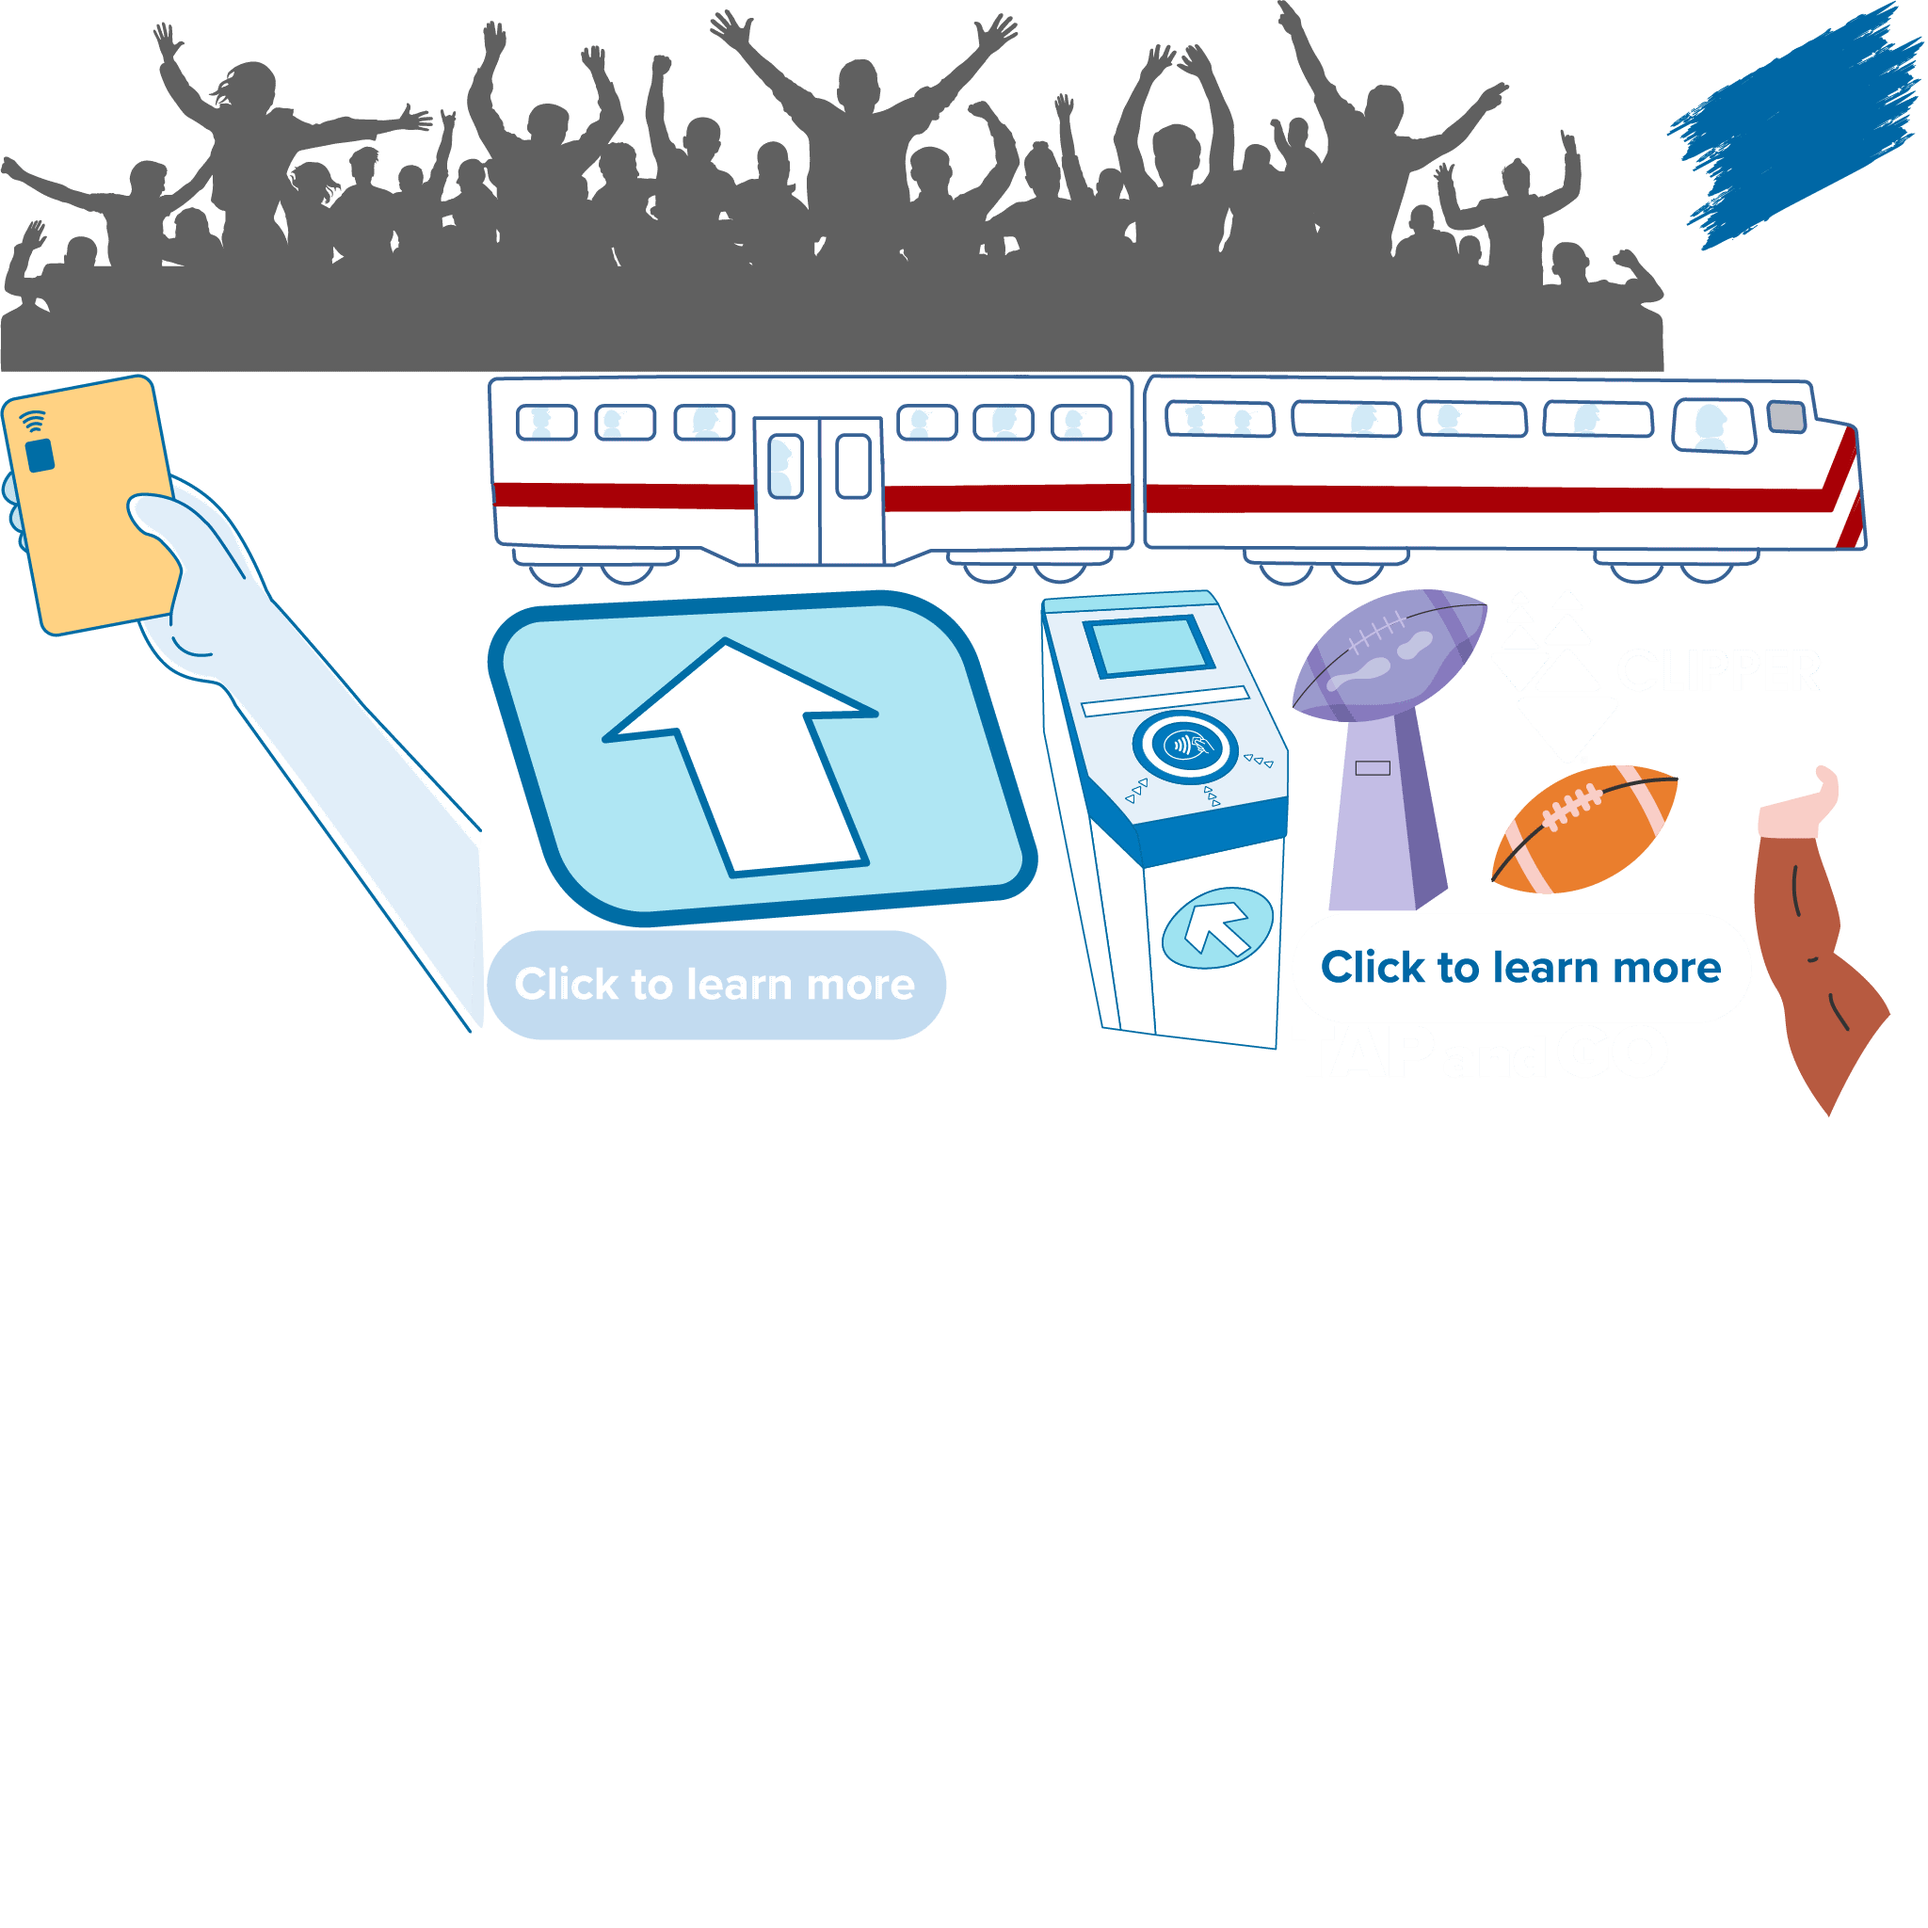
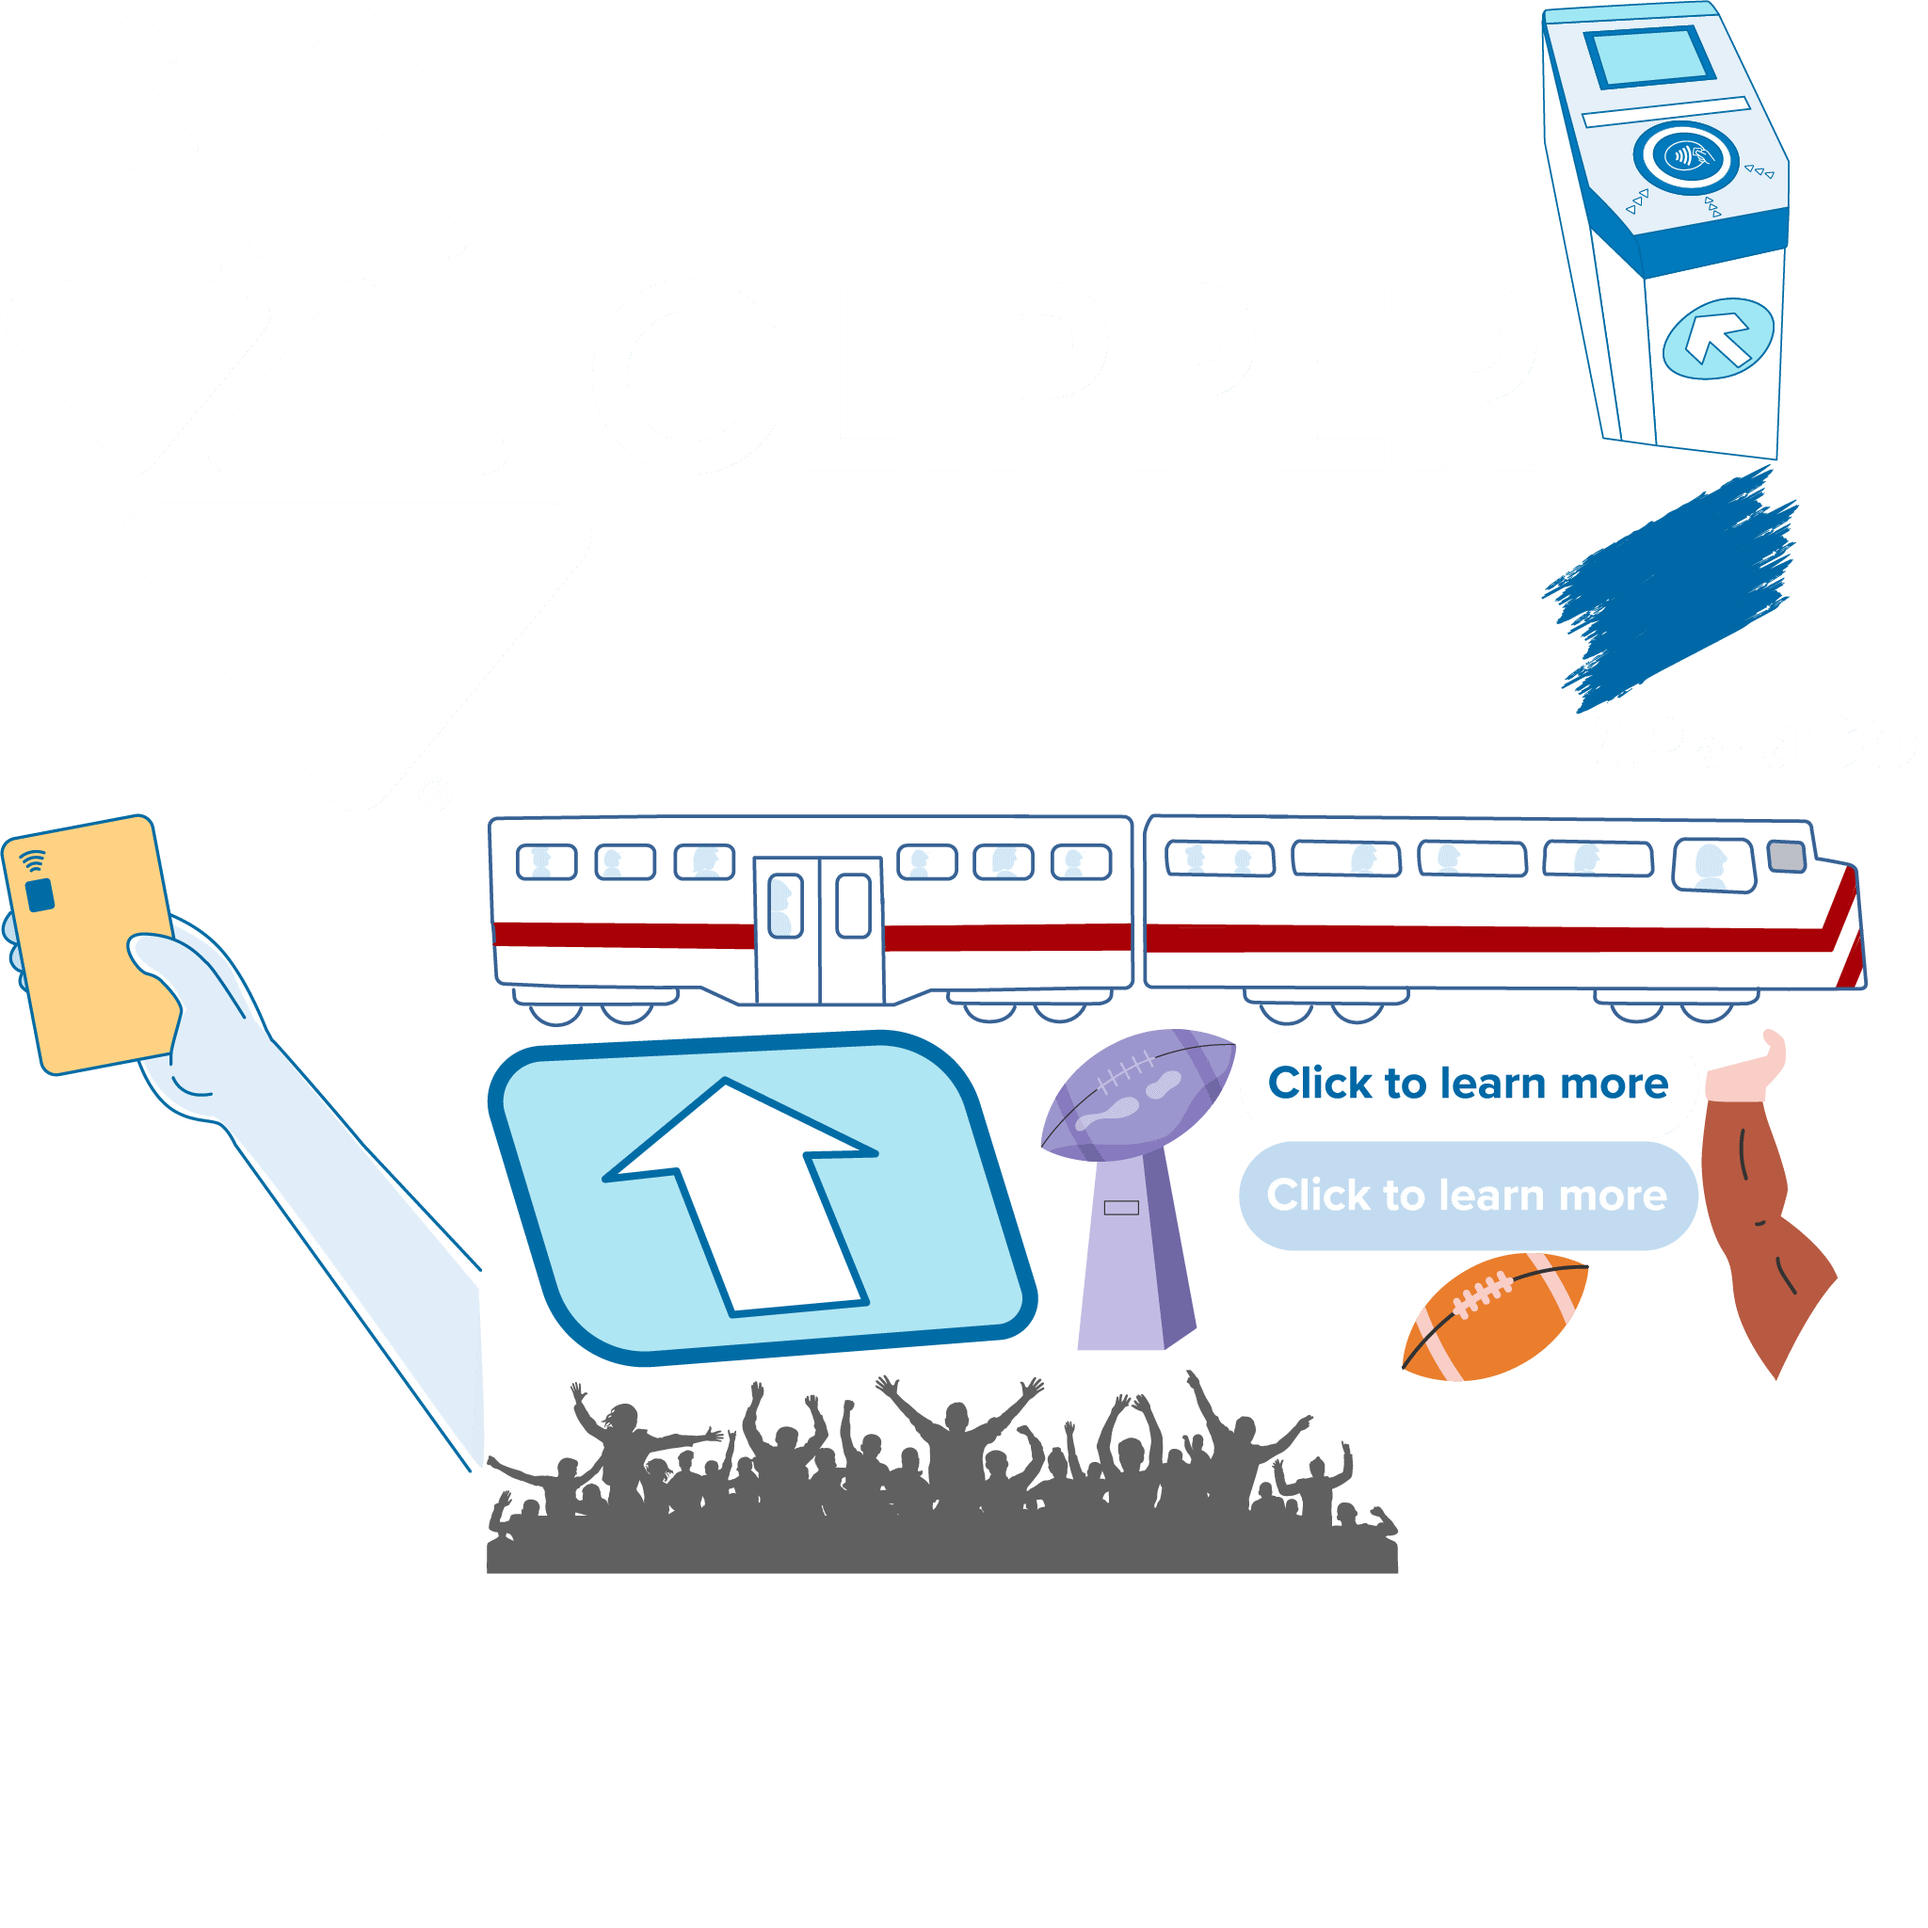
Add files via upload

diff --git a/index.html b/index.html
@@ -19,7 +19,7 @@
 var p; // shortcut to reference prototypes
 var lib={};var ss={};var img={};
 lib.ssMetadata = [
-		{name:"super_bowl_atlas_1", frames: [[1372,970,489,117],[517,988,489,117],[1863,813,146,374],[1583,813,200,137],[0,397,515,701],[1372,626,209,342],[1372,1089,400,56],[1770,0,275,267],[1105,626,265,490],[1583,626,351,185],[0,0,1768,395],[517,397,1468,227],[517,626,586,360]]}
+		{name:"super_bowl_atlas_1", frames: [[1316,1093,489,117],[1316,1212,489,117],[517,1455,969,217],[1807,1093,146,374],[1488,1331,200,137],[0,864,515,701],[1105,1093,209,342],[1637,761,400,56],[1637,492,275,267],[1637,0,265,490],[517,864,1468,227],[0,0,1635,862],[517,1093,586,360]]}
 ];
 (lib.AnMovieClip = function(){
 	this.actionFrames = [];
@@ -46,43 +46,43 @@ lib.ssMetadata = [
 	this.initialize(ss["super_bowl_atlas_1"]);
 	this.gotoAndStop(1);
 }).prototype = p = new cjs.Sprite();
-(lib.Asset308 = function() {
+(lib.Asset288 = function() {
 	this.initialize(ss["super_bowl_atlas_1"]);
 	this.gotoAndStop(2);
 }).prototype = p = new cjs.Sprite();
-(lib.Asset318 = function() {
+(lib.Asset308 = function() {
 	this.initialize(ss["super_bowl_atlas_1"]);
 	this.gotoAndStop(3);
 }).prototype = p = new cjs.Sprite();
-(lib.Asset328 = function() {
+(lib.Asset318 = function() {
 	this.initialize(ss["super_bowl_atlas_1"]);
 	this.gotoAndStop(4);
 }).prototype = p = new cjs.Sprite();
-(lib.Asset338 = function() {
+(lib.Asset328 = function() {
 	this.initialize(ss["super_bowl_atlas_1"]);
 	this.gotoAndStop(5);
 }).prototype = p = new cjs.Sprite();
-(lib.Asset368 = function() {
+(lib.Asset338 = function() {
 	this.initialize(ss["super_bowl_atlas_1"]);
 	this.gotoAndStop(6);
 }).prototype = p = new cjs.Sprite();
-(lib.Asset378 = function() {
+(lib.Asset368 = function() {
 	this.initialize(ss["super_bowl_atlas_1"]);
 	this.gotoAndStop(7);
 }).prototype = p = new cjs.Sprite();
-(lib.Asset398 = function() {
+(lib.Asset378 = function() {
 	this.initialize(ss["super_bowl_atlas_1"]);
 	this.gotoAndStop(8);
 }).prototype = p = new cjs.Sprite();
-(lib.Asset418 = function() {
+(lib.Asset398 = function() {
 	this.initialize(ss["super_bowl_atlas_1"]);
 	this.gotoAndStop(9);
 }).prototype = p = new cjs.Sprite();
-(lib.Asset428 = function() {
+(lib.caltrain = function() {
 	this.initialize(ss["super_bowl_atlas_1"]);
 	this.gotoAndStop(10);
 }).prototype = p = new cjs.Sprite();
-(lib.caltrain = function() {
+(lib.logo = function() {
 	this.initialize(ss["super_bowl_atlas_1"]);
 	this.gotoAndStop(11);
 }).prototype = p = new cjs.Sprite();
@@ -458,12 +458,12 @@ if (reversed == null) { reversed = false; }
 	props.reversed = reversed;
 	cjs.MovieClip.apply(this,[props]);
 	// Layer_1
-	this.instance = new lib.Asset428();
-	this.instance.setTransform(-1454,-182,1.335,1.335);
+	this.instance = new lib.Asset288();
+	this.instance.setTransform(-1568,-254,2.8845,2.8845);
 	this.timeline.addTween(cjs.Tween.get(this.instance).wait(2));
 	this._renderFirstFrame();
 }).prototype = p = new cjs.MovieClip();
-p.nominalBounds = new cjs.Rectangle(-1454,-182,2360.3,527.4);
+p.nominalBounds = new cjs.Rectangle(-1568,-254,2795.1,626);
 (lib.Tween35 = function(mode,startPosition,loop,reversed) {
 if (loop == null) { loop = true; }
 if (reversed == null) { reversed = false; }
@@ -1820,7 +1820,7 @@ if (reversed == null) { reversed = false; }
 }).prototype = p = new cjs.MovieClip();
 p.nominalBounds = new cjs.Rectangle(-6.6,-9.2,4801.200000000001,522.2);
 // stage content:
-(lib.RECOVER_Contactless_SuperBowl25_300x600 = function(mode,startPosition,loop,reversed) {
+(lib.Contactless_SuperBowl25_300x600 = function(mode,startPosition,loop,reversed) {
 if (loop == null) { loop = true; }
 if (reversed == null) { reversed = false; }
 	var props = new Object();
@@ -1930,7 +1930,7 @@ if (reversed == null) { reversed = false; }
 	this.shape_30 = new cjs.Shape();
[1 lines of base64/hex data omitted]
 	this.shape_30.setTransform(43.275,91);
-	this.timeline.addTween(cjs.Tween.get({}).to({state:[]}).to({state:[{t:this.shape_30},{t:this.shape_29},{t:this.shape_28},{t:this.shape_27},{t:this.shape_26},{t:this.shape_25},{t:this.shape_24},{t:this.shape_23},{t:this.shape_22},{t:this.shape_21},{t:this.shape_20},{t:this.shape_19},{t:this.shape_18},{t:this.shape_17},{t:this.shape_16},{t:this.shape_15},{t:this.shape_14},{t:this.shape_13},{t:this.shape_12},{t:this.shape_11},{t:this.shape_10},{t:this.shape_9},{t:this.shape_8},{t:this.shape_7},{t:this.shape_6},{t:this.shape_5},{t:this.shape_4},{t:this.shape_3},{t:this.shape_2},{t:this.shape_1},{t:this.shape}]},216).to({state:[]},58).to({state:[]},46).wait(38));
+	this.timeline.addTween(cjs.Tween.get({}).to({state:[]}).to({state:[{t:this.shape_30},{t:this.shape_29},{t:this.shape_28},{t:this.shape_27},{t:this.shape_26},{t:this.shape_25},{t:this.shape_24},{t:this.shape_23},{t:this.shape_22},{t:this.shape_21},{t:this.shape_20},{t:this.shape_19},{t:this.shape_18},{t:this.shape_17},{t:this.shape_16},{t:this.shape_15},{t:this.shape_14},{t:this.shape_13},{t:this.shape_12},{t:this.shape_11},{t:this.shape_10},{t:this.shape_9},{t:this.shape_8},{t:this.shape_7},{t:this.shape_6},{t:this.shape_5},{t:this.shape_4},{t:this.shape_3},{t:this.shape_2},{t:this.shape_1},{t:this.shape}]},216).to({state:[]},48).to({state:[]},46).wait(48));
 	// get_to_copy
 	this.shape_31 = new cjs.Shape();
 	this.shape_31.graphics.f("#FFFFFF").s().p("AgbAcIAAg3IA3AAIAAA3g");
@@ -2004,7 +2004,7 @@ if (reversed == null) { reversed = false; }
 	this.shape_45.graphics.f().s("rgba(37,37,38,0)").ss(7,1,1).p("AAGAuQgLgnAAgrQAAgEAAgF");
 	this.shape_45.setTransform(27.725,126.4875);
 	this.timeline.addTween(cjs.Tween.get({}).to({state:[]}).to({state:[{t:this.instance_4}]},216).to({state:[{t:this.instance_4}]},10).to({state:[{t:this.instance_4}]},40).to({state:[{t:this.shape_45},{t:this.instance_4}]},8).wait(84));
-	this.timeline.addTween(cjs.Tween.get(this.instance_4).wait(216).to({_off:false},0).to({x:275.55,y:592.25},10).wait(40).to({startPosition:0},0).wait(8).to({scaleX:0.7072,scaleY:0.7072,x:290.6,y:527.35},0).wait(84));
+	this.timeline.addTween(cjs.Tween.get(this.instance_4).wait(216).to({_off:false},0).to({x:275.55,y:592.25},10).wait(40).to({startPosition:0},0).wait(8).to({scaleX:0.7072,scaleY:0.7072,x:290.6,y:507.35},0).wait(84));
 	// ride_ok
 	this.instance_5 = new lib.Tween27("synched",0);
 	this.instance_5.setTransform(132.8,339.1,0.5686,0.5686,0,0,0,0.1,0.1);
@@ -2096,14 +2096,14 @@ if (reversed == null) { reversed = false; }
 	this.instance_11._off = true;
 	this.timeline.addTween(cjs.Tween.get(this.instance_11).wait(34).to({_off:false},0).to({alpha:1},8).to({y:522.7},14).to({y:482.7},14).to({y:522.7},16).to({y:482.7},16).to({y:522.7,alpha:0},18).to({_off:true},96).wait(142));
 	// logo
-	this.instance_12 = new lib.Asset418();
-	this.instance_12.setTransform(18,489,0.4189,0.4189);
+	this.instance_12 = new lib.logo();
+	this.instance_12.setTransform(21,488,0.0913,0.0913);
 	this.instance_12._off = true;
 	this.timeline.addTween(cjs.Tween.get(this.instance_12).wait(274).to({_off:false},0).wait(84));
 	// text_animated
 	this.BG = new lib.BG_text();
 	this.BG.name = "BG";
-	this.BG.setTransform(151.2,306.1,1,1,0,0,0,157.2,328.1);
+	this.BG.setTransform(151.2,294.1,1,1,0,0,0,157.2,328.1);
 	this.BG._off = true;
 	new cjs.ButtonHelper(this.BG, 0, 1, 1);
 	this.timeline.addTween(cjs.Tween.get(this.BG).wait(274).to({_off:false},0).wait(84));
@@ -2134,7 +2134,7 @@ lib.properties = {
 	color: "#2B2426",
 	opacity: 1.00,
 	manifest: [
-		{src:"images/super_bowl_atlas_1.png?1766524783032", id:"super_bowl_atlas_1"}
+		{src:"images/super_bowl_atlas_1.png?1769555704269", id:"super_bowl_atlas_1"}
 	],
 	preloads: []
 };
@@ -2268,7 +2268,7 @@ function handleComplete(evt,comp) {
 	for(i=0; i<ssMetadata.length; i++) {
 		ss[ssMetadata[i].name] = new createjs.SpriteSheet( {"images": [queue.getResult(ssMetadata[i].name)], "frames": ssMetadata[i].frames} )
 	}
-	exportRoot = new lib.RECOVER_Contactless_SuperBowl25_300x600();
+	exportRoot = new lib.Contactless_SuperBowl25_300x600();
 	stage = new lib.Stage(canvas);
 	stage.enableMouseOver();	
 	//Registers the "tick" event listener.
